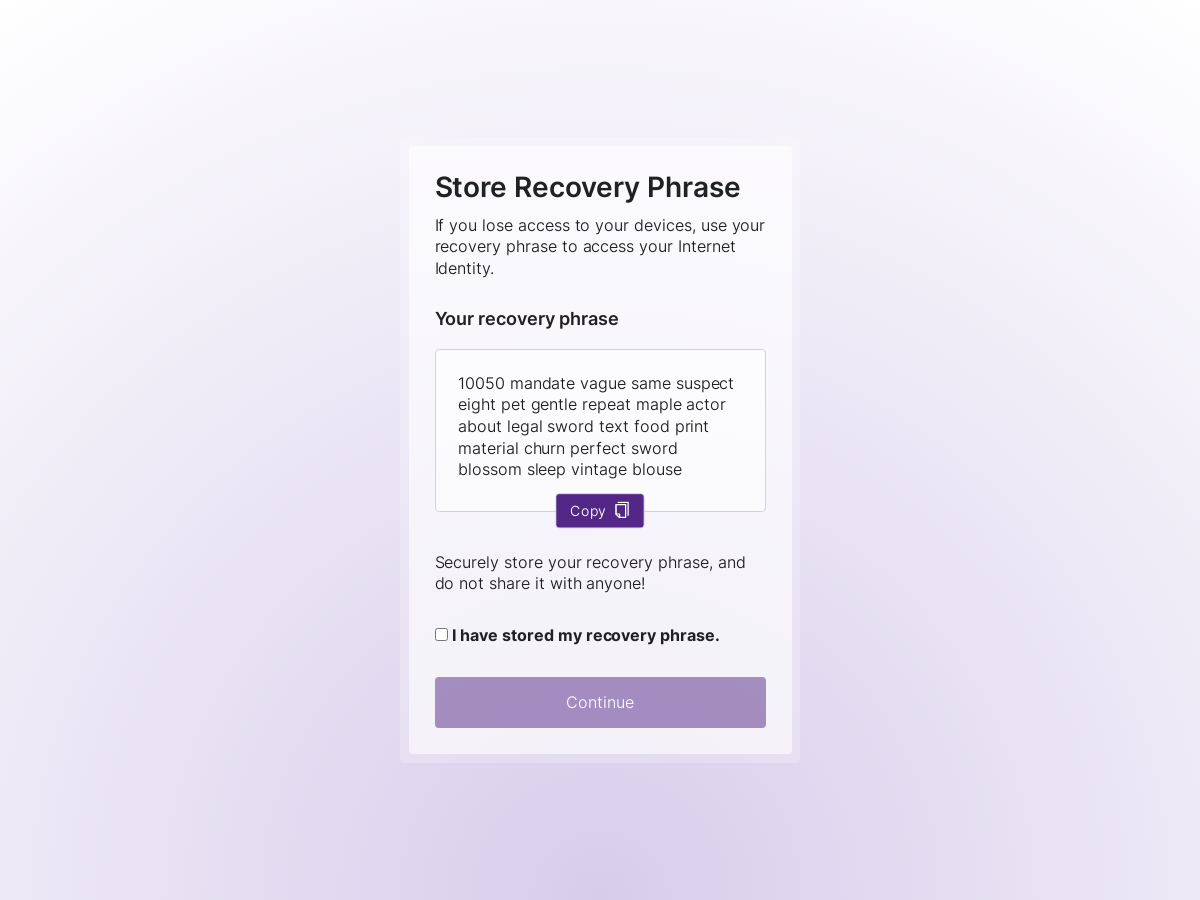
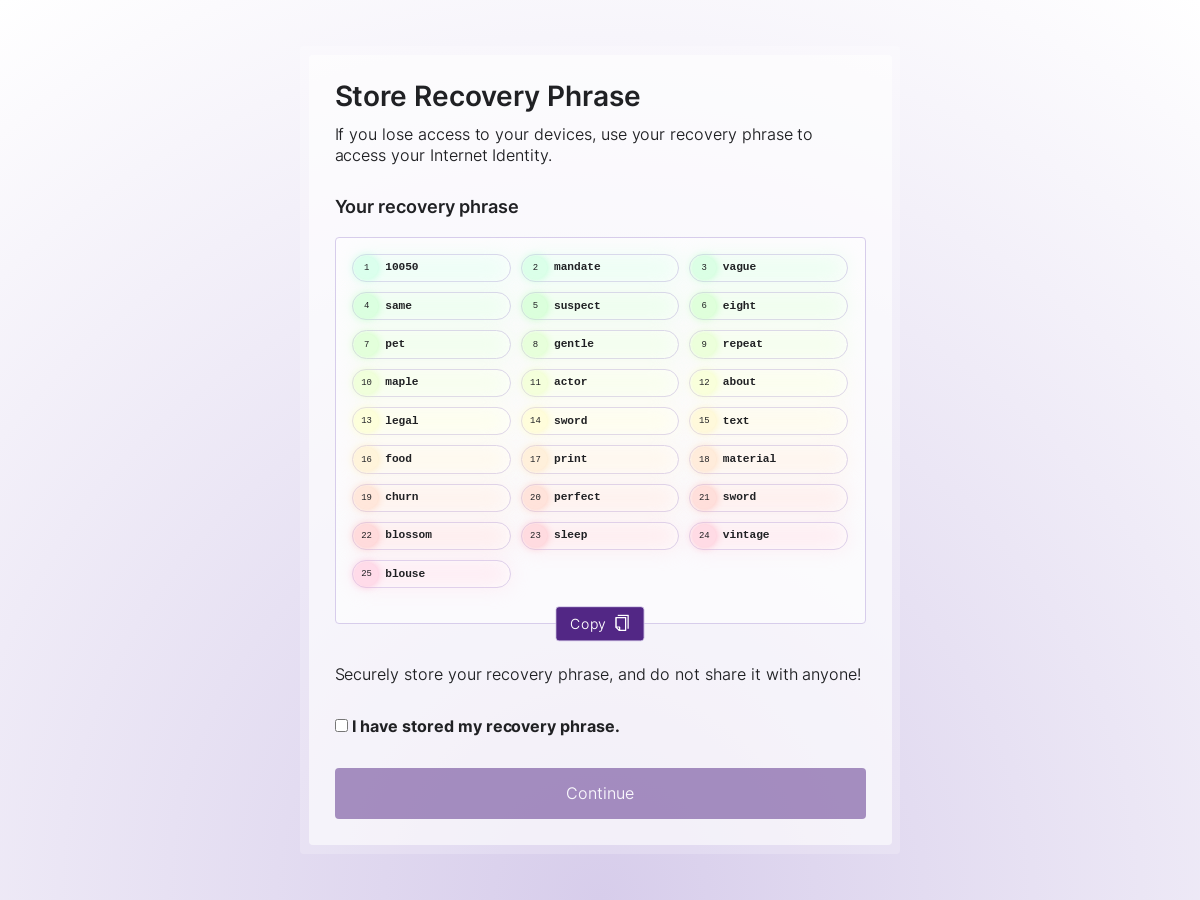
Show recovery words table (#1319)
* Show recovery words table

This updates the page showing the recovery phrase to be more user
friendly.

The new component (designed by @meodai, adapted here from the
styleguide) displays each word separately, similarly to what most
wallets do.

The tests are updated to use the preferred storage method, which is the
"copy" button; previously tests copied the value from the `output`
element, which should but may not have matched the clipboard content.

Some workarounds are needed to make the clipboard work in the browser
tests; see code for details.

* Format ts

* 🤖 Selenium screenshots auto-update

---------

Changed region(s): [[0.2775, 0.0933, 0.6783, 0.7156], [0.2467, 0.7467, 0.74, 0.9644], [0.6475, 0.5911, 0.74, 0.7156]]

diff --git a/src/frontend/src/flows/recovery/displaySeedPhrase.ts b/src/frontend/src/flows/recovery/displaySeedPhrase.ts
@@ -14,30 +14,18 @@ const displaySeedPhraseTemplate = ({
   copyPhrase: () => Promise<void>;
   onContinue: () => void;
 }) => {
-  const phraseElement: Ref<HTMLElement> = createRef();
   const phraseCopyElement: Ref<HTMLElement> = createRef();
 
   const continueButton: Ref<HTMLButtonElement> = createRef();
   const checkbox: Ref<HTMLInputElement> = createRef();
 
-  // Selects the phrase content to give visual feedback of what's been copied
-  const selectPhrase = () => {
-    withRef(phraseElement, (phraseElement) => {
-      const selection = window.getSelection();
-      if (selection !== null) {
-        const range = document.createRange();
-        range.selectNodeContents(phraseElement);
-        selection.removeAllRanges();
-        selection.addRange(range);
-      }
-    });
-  };
+  // Assume the phrase is a list of space-separated words
+  const recoveryWords = seedPhrase.split(" ");
 
   // Copy the phrase and give visual feedback on success
   const copyPhrase = async () => {
     try {
       await copyPhrase_();
-      selectPhrase();
       withRef(phraseCopyElement, (phraseCopyElement) => {
         phraseCopyElement.classList.add("is-copied");
       });
@@ -49,61 +37,75 @@ const displaySeedPhraseTemplate = ({
 
   const pageContentSlot = html`
     <article>
-    <hgroup>
-      <h1 class="t-title t-title--main">Store Recovery Phrase</h1>
-      <p class="t-lead">
-         If you lose access to your devices, use your recovery phrase to access your Internet Identity.
-      </p>
-    </hgroup>
-    <h2 class="t-title l-stack">Your recovery phrase</h2>
-    <div>
-      <output
-        class="c-input c-input--textarea c-input--readonly c-input--icon"
-        ><i translate="no"
-        ${ref(phraseElement)}
-        id="seedPhrase">${seedPhrase}</i><i
+      <hgroup>
+        <h1 class="t-title t-title--main">Store Recovery Phrase</h1>
+        <p class="t-lead">
+          If you lose access to your devices, use your recovery phrase to access
+          your Internet Identity.
+        </p>
+      </hgroup>
+      <h2 class="t-title l-stack">Your recovery phrase</h2>
+      <div>
+        <output
+          class="c-input c-input--textarea c-input--textarea-narrow c-input--readonly c-input--icon"
+          ><ol translate="no" class="c-list c-list--recovery">
+            ${recoveryWords.map(
+              (word, i) =>
+                html`<li style="--i: ${i / recoveryWords.length}">${word}</li>`
+            )}
+          </ol>
+          <i
             ${ref(phraseCopyElement)}
             @click=${() => copyPhrase()}
-          aria-label="Copy phrase to clipboard""
-          title="Copy phrase to clipboard"
-          tabindex="0"
-          id="seedCopy"
-          class="c-button__icon c-input__icon"
+            aria-label="Copy phrase to clipboard"
+            title="Copy phrase to clipboard"
+            tabindex="0"
+            id="seedCopy"
+            class="c-button__icon c-input__icon"
           >
             <span>Copy</span>
-            ${copyIcon}
-            ${checkmarkIcon}
-          </i
-        ></output
-      >
-    </div>
+            ${copyIcon} ${checkmarkIcon}
+          </i></output
+        >
+      </div>
 
-    <p class="t-paragraph">
-      Securely store your recovery phrase, and do not share it with anyone!
-    </p>
+      <p class="t-paragraph">
+        Securely store your recovery phrase, and do not share it with anyone!
+      </p>
 
-    <div class="l-stack">
-      <input ${ref(checkbox)} type="checkbox" id="ack-checkbox" name="scales"
-        @change=${() =>
-          withRef(continueButton, (continueButton) =>
-            withRef(checkbox, (checkbox) => {
-              continueButton.disabled = !checkbox.checked;
-            })
-          )}
-      />
-      <label for="ack-checkbox" class="t-strong">I have stored my recovery phrase.</label>
-    </div>
-    <div class="l-stack">
-      <button ${ref(continueButton)}
-      @click=${() => onContinue()}
-      id="displaySeedPhraseContinue" class="c-button" disabled>
-        Continue
-      </button>
-    </div>
-  </article>
-`;
+      <div class="l-stack">
+        <input
+          ${ref(checkbox)}
+          type="checkbox"
+          id="ack-checkbox"
+          name="scales"
+          @change=${() =>
+            withRef(continueButton, (continueButton) =>
+              withRef(checkbox, (checkbox) => {
+                continueButton.disabled = !checkbox.checked;
+              })
+            )}
+        />
+        <label for="ack-checkbox" class="t-strong"
+          >I have stored my recovery phrase.</label
+        >
+      </div>
+      <div class="l-stack">
+        <button
+          ${ref(continueButton)}
+          @click=${() => onContinue()}
+          id="displaySeedPhraseContinue"
+          class="c-button"
+          disabled
+        >
+          Continue
+        </button>
+      </div>
+    </article>
+  `;
 
   return mainWindow({
+    isWideContainer: true,
     showLogo: false,
     showFooter: false,
     slot: pageContentSlot,

diff --git a/src/frontend/src/test-e2e/views.ts b/src/frontend/src/test-e2e/views.ts
@@ -126,7 +126,38 @@ export class RecoveryMethodSelectorView extends View {
   }
 
   async getSeedPhrase(): Promise<string> {
-    return await this.browser.$("#seedPhrase").getText();
+    // This tries to read the recovery phrase by first copying it to the clipboard.
+
+    await this.copySeedPhrase();
+
+    // Our CSP policy prevents us from directly reading the clipboard.
+    // Instead, we mock user input to paste the clipboard content in textarea element and
+    // read the element's value.
+
+    // First, create a new textarea element where the phrase will be pasted
+    await this.browser.execute(() => {
+      const elem = document.createElement("textarea");
+      elem.setAttribute("id", "my-paste-area");
+      document.body.prepend(elem);
+    });
+
+    // Select the element and mock "Ctrl + V" for pasting the clipboard content into said element
+    await this.browser.$("#my-paste-area").click();
+    await this.browser.keys(["Control", "v"]);
+
+    // Read the element's value and clean up
+    const seedPhrase = await this.browser.execute(() => {
+      const elem = document.querySelector(
+        "#my-paste-area"
+      ) as HTMLTextAreaElement;
+      // NOTE: we could also query the value with wdio's $(..).getValue(), but since we have
+      // the element here might as well.
+      const seedPhrase = elem.value!;
+      elem.remove();
+      return seedPhrase;
+    });
+
+    return seedPhrase;
   }
 
   async skipRecovery(): Promise<void> {

diff --git a/src/frontend/src/test-e2e/util.ts b/src/frontend/src/test-e2e/util.ts
@@ -35,6 +35,17 @@ export async function runInBrowser(
       "--ignore-certificate-errors", // allow self-signed certificates
       "--disable-gpu",
     ],
+
+    // Disables permission prompt for clipboard, needed for tests using the clipboard (without this,
+    // the browser window prompts the user to allow or block clipboard access).
+    // https://stackoverflow.com/questions/53669639/enable-clipboard-in-automated-tests-with-protractor-and-webdriver
+    // XXX: the "any" cast is needed because our webdriverio version only expects numbers, strings
+    // or bools: https://github.com/webdriverio/webdriverio/issues/9924
+    prefs: {
+      "profile.content_settings.exceptions.clipboard": {
+        "*": { last_modified: Date.now(), setting: 1 },
+      } as any,
+    },
   };
 
   if (runConfig.screenConfiguration.screenType === "mobile") {
